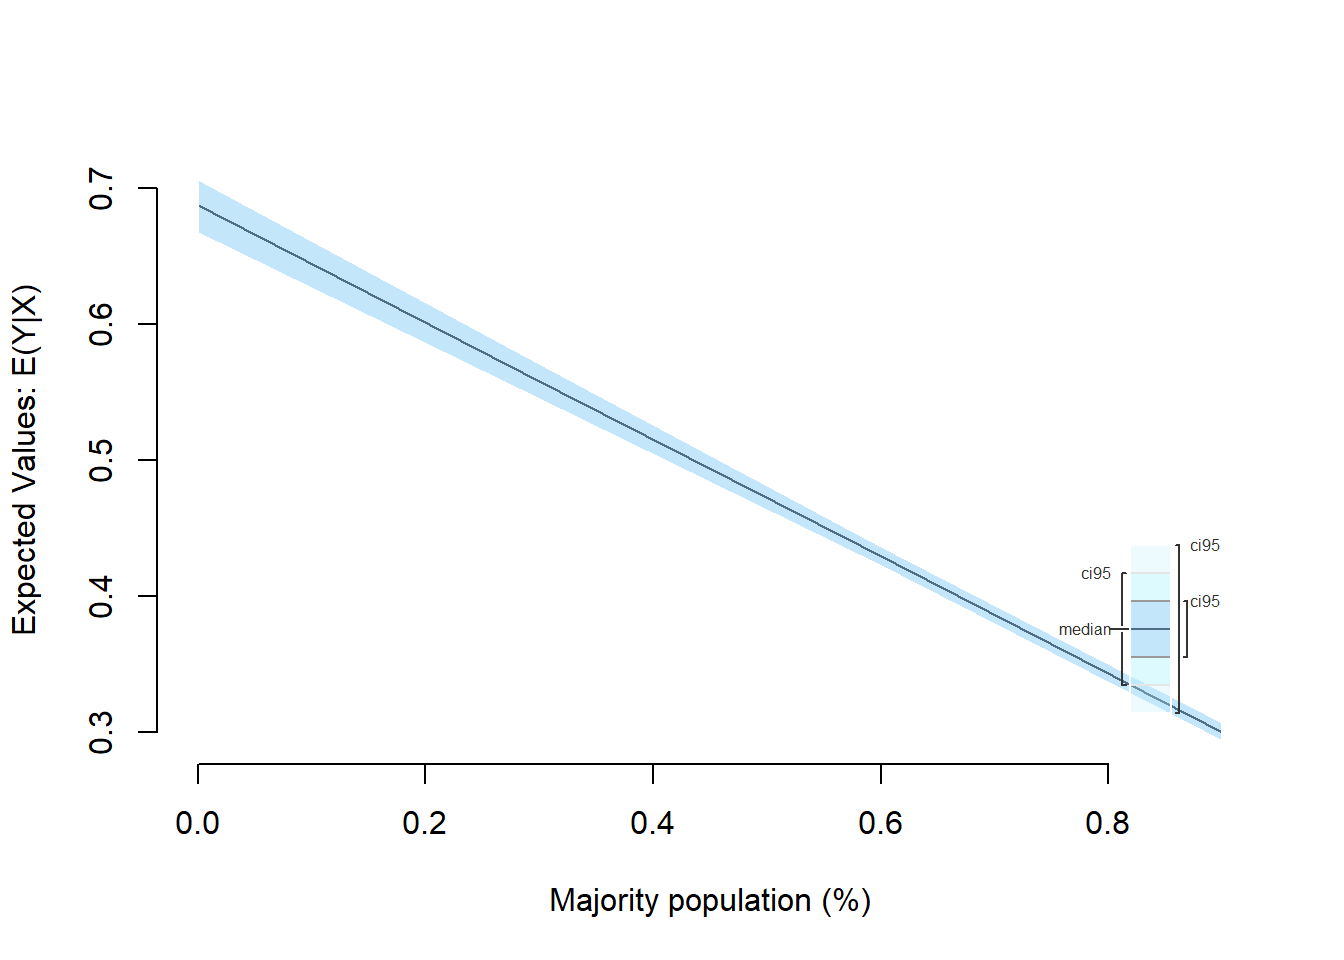
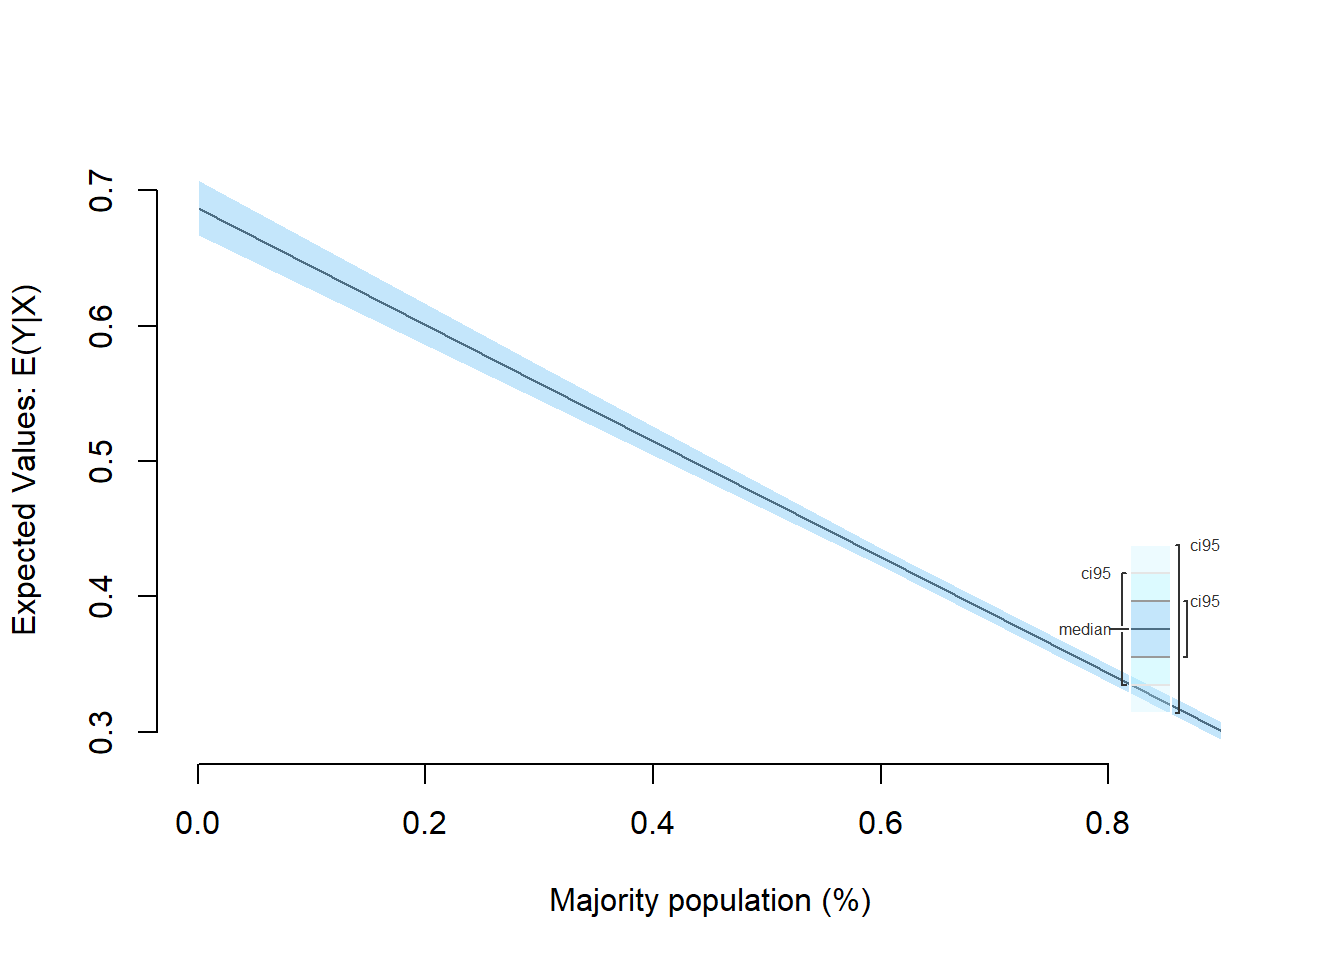
solution day 2

diff --git a/solutions2.html b/solutions2.html
@@ -216,34 +216,49 @@ $(document).ready(function () {
 </div>
 
 
-<pre class="r"><code>rm(list=ls())
-
-library(texreg)
-library(Zelig)
-library(dplyr)
-
+<div id="solution-lab-2" class="section level3">
+<h3>Solution Lab 2</h3>
+<ol style="list-style-type: decimal">
+<li>Load the immigration dataset dataset</li>
+</ol>
+<pre class="r"><code># clear workspace
+rm(list=ls())
 
 # read in various datasets and combine them 
-communities &lt;- read.csv(&quot;./data/communities.csv&quot;)
-communities_employment &lt;- read.csv(&quot;http://uclspp.github.io/PUBLG100/data/communities_employment.csv&quot;)
-communities_immigration &lt;- read.csv(&quot;http://uclspp.github.io/PUBLG100/data/communities_immig.csv&quot;)</code></pre>
-<pre class="r"><code>communities &lt;- merge(communities, communities_employment, by = c(&quot;state&quot;, &quot;communityname&quot;))
-communities &lt;- merge(communities, communities_immigration, by = c(&quot;state&quot;, &quot;communityname&quot;))</code></pre>
-<pre class="r"><code>## ------------------------------------------------------------------------
-communities &lt;- select(communities, 
-                      state, 
-                      Community = communityname, 
-                      UnemploymentRate = PctUnemployed.y, 
-                      NoHighSchool = PctNotHSGrad,
-                      White = racePctWhite,
-                      RecentImmigration5 = PctImmigRec5)
+immi &lt;- read.csv(&quot;http://uclspp.github.io/PUBLG100/data/communities_immig.csv&quot;)</code></pre>
+<ol start="2" style="list-style-type: decimal">
+<li>Rename the <code>PctImmigRec5</code> variable to <code>RecentImmigration5</code>.</li>
+</ol>
+<p>Here, we use <code>select()</code> from <code>dplyr</code>. Sometimes different packages provide packages with similar names. Both <code>dplyr</code> and <code>Zelig</code> have functions called <code>select()</code> for example. This can cause conflicts. If we have a package installed, we can call a function from it directly without loading the function of that package into the current namespace. The following code does this. We also have to merge some data sets.</p>
+<pre class="r"><code># load original communities data set
+com &lt;- read.csv(&quot;C:/Users/phili/Dropbox/Essex 2017 ML/Day 2/Lab/communities.csv&quot;)
 
-## ------------------------------------------------------------------------
-model_immigration &lt;- lm(UnemploymentRate ~ RecentImmigration5, data = communities)
-summary(model_immigration)</code></pre>
+# load data set on employment
+empl &lt;- read.csv(&quot;http://uclspp.github.io/PUBLG100/data/communities_employment.csv&quot;)
+
+## merge data sets
+# com and empl
+com &lt;- merge(com, empl, by = c(&quot;state&quot;, &quot;communityname&quot;))
+# merge immi to the data sets
+com &lt;- merge(com, immi, by = c(&quot;state&quot;, &quot;communityname&quot;))
+# remove the now unecessary data sets immi and empl
+rm(immi, empl)
+
+com &lt;- dplyr::select(com,
+                     community = communityname,
+                     unemploymentrate = PctUnemployed.y,
+                     nohighschool = PctNotHSGrad,
+                     white = racePctWhite,
+                     recentimmigration5 = PctImmigRec5
+                     )</code></pre>
+<ol start="3" style="list-style-type: decimal">
+<li>Estimate a model explaining the relationship between unemployment rate and recent immigration over the past 5 years using the variable <code>RecentImmigration5</code>.</li>
+</ol>
+<pre class="r"><code>m_immi &lt;- lm(unemploymentrate ~ recentimmigration5, data = com)
+summary(m_immi)</code></pre>
 <pre><code>## 
 ## Call:
-## lm(formula = UnemploymentRate ~ RecentImmigration5, data = communities)
+## lm(formula = unemploymentrate ~ recentimmigration5, data = com)
 ## 
 ## Residuals:
 ##     Min      1Q  Median      3Q     Max 
@@ -252,38 +267,47 @@ summary(model_immigration)</code></pre>
 ## Coefficients:
 ##                    Estimate Std. Error t value Pr(&gt;|t|)    
 ## (Intercept)        0.325347   0.008917  36.488  &lt; 2e-16 ***
-## RecentImmigration5 0.105882   0.021344   4.961 7.62e-07 ***
+## recentimmigration5 0.105882   0.021344   4.961 7.62e-07 ***
 ## ---
 ## Signif. codes:  0 &#39;***&#39; 0.001 &#39;**&#39; 0.01 &#39;*&#39; 0.05 &#39;.&#39; 0.1 &#39; &#39; 1
 ## 
 ## Residual standard error: 0.201 on 1992 degrees of freedom
 ## Multiple R-squared:  0.0122, Adjusted R-squared:  0.01171 
 ## F-statistic: 24.61 on 1 and 1992 DF,  p-value: 7.621e-07</code></pre>
-<pre class="r"><code>## ------------------------------------------------------------------------
-plot(communities$RecentImmigration5, communities$UnemploymentRate,
+<ol start="4" style="list-style-type: decimal">
+<li>Plot the regression line of the model.</li>
+</ol>
+<p>We draw a scatterplot using the <code>plot()</code> function and <code>abline()</code> to draw the regression line.</p>
+<pre class="r"><code># the scatterplot
+plot(com$unemploymentrate ~ com$recentimmigration5,
      xlab = &quot;Recent Immigration&quot;,
-     ylab = &quot;Unemployment Rate&quot;)
+     ylab = &quot;Unemployment Rate&quot;,
+     bty = &quot;n&quot;, pch = 16)
 
-abline(model_immigration, col = &quot;red&quot;)</code></pre>
-<p><img src="solutions2_files/figure-html/unnamed-chunk-3-1.png" width="672" /></p>
-<pre class="r"><code>## ------------------------------------------------------------------------
-model_education &lt;- lm(UnemploymentRate ~ NoHighSchool, data = communities)
+# add the regression line
+abline(m_immi, col = &quot;red&quot;, lwd = 2)</code></pre>
+<p><img src="solutions2_files/figure-html/unnamed-chunk-4-1.png" width="672" /></p>
+<ol start="5" style="list-style-type: decimal">
+<li>How does this model compare to the models we estimated in the seminar with NoHighSchool and Minority as independent variables? Present your findings by comparing the output of all three models in side-by-side tables using the texreg package.</li>
+</ol>
+<pre class="r"><code>m_edu &lt;- lm(unemploymentrate ~ nohighschool, data = com)
 
-communities$Minority &lt;- 1 - communities$White
-model_minority &lt;- lm(UnemploymentRate ~ Minority, data = communities)
+# minority percentage
+com$minority &lt;- 1 - com$white
+m_minority &lt;- lm(unemploymentrate ~ minority, data = com)
 
-screenreg(list(model_education, model_minority, model_immigration))</code></pre>
+texreg::screenreg(list(m_edu, m_minority, m_immi))</code></pre>
 <pre><code>## 
 ## =========================================================
 ##                     Model 1      Model 2      Model 3    
 ## ---------------------------------------------------------
 ## (Intercept)            0.08 ***     0.26 ***     0.33 ***
 ##                       (0.01)       (0.01)       (0.01)   
-## NoHighSchool           0.74 ***                          
+## nohighschool           0.74 ***                          
 ##                       (0.01)                             
-## Minority                            0.43 ***             
+## minority                            0.43 ***             
 ##                                    (0.02)                
-## RecentImmigration5                               0.11 ***
+## recentimmigration5                               0.11 ***
 ##                                                 (0.02)   
 ## ---------------------------------------------------------
 ## R^2                    0.55         0.27         0.01    
@@ -292,21 +316,32 @@ screenreg(list(model_education, model_minority, model_immigration))</code></pre>
 ## RMSE                   0.14         0.17         0.20    
 ## =========================================================
 ## *** p &lt; 0.001, ** p &lt; 0.01, * p &lt; 0.05</code></pre>
-<pre class="r"><code>## ------------------------------------------------------------------------
-htmlreg(list(model_education, model_minority, model_immigration), file = &quot;solutions_Lab2_model_comparison.doc&quot;)</code></pre>
-<pre><code>## The table was written to the file &#39;solutions_Lab2_model_comparison.doc&#39;.</code></pre>
-<pre class="r"><code>## ------------------------------------------------------------------------
-z.out &lt;- zelig(UnemploymentRate ~ RecentImmigration5, data = communities, model = &quot;ls&quot;)</code></pre>
+<ol start="6" style="list-style-type: decimal">
+<li>Save your model comparison table to a Microsoft Word document (or another format if you donâ€™t use Word).</li>
+</ol>
+<pre class="r"><code>texreg::htmlreg(list(m_edu, m_minority, m_immi), file = &quot;Lab2_model_comparison.doc&quot;)</code></pre>
+<pre><code>## The table was written to the file &#39;Lab2_model_comparison.doc&#39;.</code></pre>
+<ol start="7" style="list-style-type: decimal">
+<li>Generate predicted values from the fitted model with RecentImmigration5 and plot the confidence interval using <code>Zelig</code>.</li>
+</ol>
+<pre class="r"><code>library(Zelig)
+z.out &lt;- zelig(unemploymentrate ~ recentimmigration5, data = com, model = &quot;ls&quot;)</code></pre>
 <pre><code>## How to cite this model in Zelig:
 ##   R Core Team. 2007.
 ##   ls: Least Squares Regression for Continuous Dependent Variables
 ##   in Christine Choirat, Christopher Gandrud, James Honaker, Kosuke Imai, Gary King, and Olivia Lau,
 ##   &quot;Zelig: Everyone&#39;s Statistical Software,&quot; http://zeligproject.org/</code></pre>
-<pre class="r"><code>x.out &lt;- setx(z.out, RecentImmigration5 = seq(0, 1, 0.1))
-s.out &lt;- sim(z.out, x = x.out, n=10000)
-
-ci.plot(s.out, xlab = &quot;Recent Immigration (last 5 years)&quot;, ci = 95)</code></pre>
-<p><img src="solutions2_files/figure-html/unnamed-chunk-3-2.png" width="672" /></p>
+<pre class="r"><code>x.out &lt;- setx(z.out, recentimmigration5 = seq(0, 1, 0.1))
+s.out &lt;- sim(z.out, x = x.out, n=10000)</code></pre>
+<ol start="8" style="list-style-type: decimal">
+<li>Save all the plots as graphics files.</li>
+</ol>
+<pre class="r"><code>png(&quot;plot.png&quot;)
+ci.plot(s.out, xlab = &quot;Recent Immigration (last 5 years)&quot;, ci = 95)
+dev.off()</code></pre>
+<pre><code>## png 
+##   2</code></pre>
+</div>
 
 
 

diff --git a/day2.html b/day2.html
@@ -545,10 +545,10 @@ summary(s.out)</code></pre>
 ##  -----
 ## ev
 ##        mean         sd       50%      2.5%     97.5%
-## 1 0.6868956 0.01218569 0.6874963 0.6624955 0.7098783
+## 1 0.6867192 0.01266871 0.6867097 0.6613431 0.7109674
 ## pv
-##           mean        sd       50%      2.5%    97.5%
-## [1,] 0.6880621 0.1720964 0.6893358 0.3439971 1.025491
+##          mean        sd       50%      2.5%    97.5%
+## [1,] 0.679359 0.1817445 0.6818691 0.3299875 1.030201
 ## 
 ## 
 ## [1] 0.3
@@ -558,10 +558,10 @@ summary(s.out)</code></pre>
 ##  -----
 ## ev
 ##        mean          sd       50%      2.5%     97.5%
-## 1 0.5581227 0.007969797 0.5582158 0.5431353 0.5727519
+## 1 0.5580025 0.008276824 0.5579352 0.5424539 0.5742976
 ## pv
-##          mean       sd       50%      2.5%     97.5%
-## [1,] 0.556062 0.167125 0.5585136 0.2221274 0.8696635
+##           mean        sd       50%      2.5%     97.5%
+## [1,] 0.5672704 0.1750699 0.5623689 0.2409463 0.9399848
 ## 
 ## 
 ## [1] 0.6
@@ -571,10 +571,10 @@ summary(s.out)</code></pre>
 ##  -----
 ## ev
 ##        mean          sd       50%      2.5%     97.5%
-## 1 0.4293498 0.004515151 0.4293525 0.4200485 0.4379658
+## 1 0.4292859 0.004698138 0.4294066 0.4199715 0.4381568
 ## pv
-##          mean        sd       50%       2.5%     97.5%
-## [1,] 0.425753 0.1714919 0.4350073 0.06959246 0.7333948
+##           mean        sd       50%       2.5%    97.5%
+## [1,] 0.4208992 0.1708662 0.4158372 0.09415001 0.763173
 ## 
 ## 
 ## [1] 0.9
@@ -583,11 +583,11 @@ summary(s.out)</code></pre>
 ##  sim range :
 ##  -----
 ## ev
-##        mean        sd       50%     2.5%     97.5%
-## 1 0.3005768 0.0043701 0.3005148 0.292408 0.3093004
+##        mean          sd       50%      2.5%     97.5%
+## 1 0.3005692 0.004603942 0.3005147 0.2915094 0.3095358
 ## pv
-##           mean       sd       50%        2.5%     97.5%
-## [1,] 0.2990947 0.172305 0.2963158 -0.03807021 0.6461085</code></pre>
+##           mean        sd       50%        2.5%     97.5%
+## [1,] 0.2994047 0.1761053 0.2950916 -0.04769425 0.6373679</code></pre>
 <pre class="r"><code>ci.plot(s.out, xlab = &quot;Majority population (%)&quot;, ci = 95)</code></pre>
 <p><img src="day2_files/figure-html/unnamed-chunk-21-1.png" width="672" /></p>
 </div>
